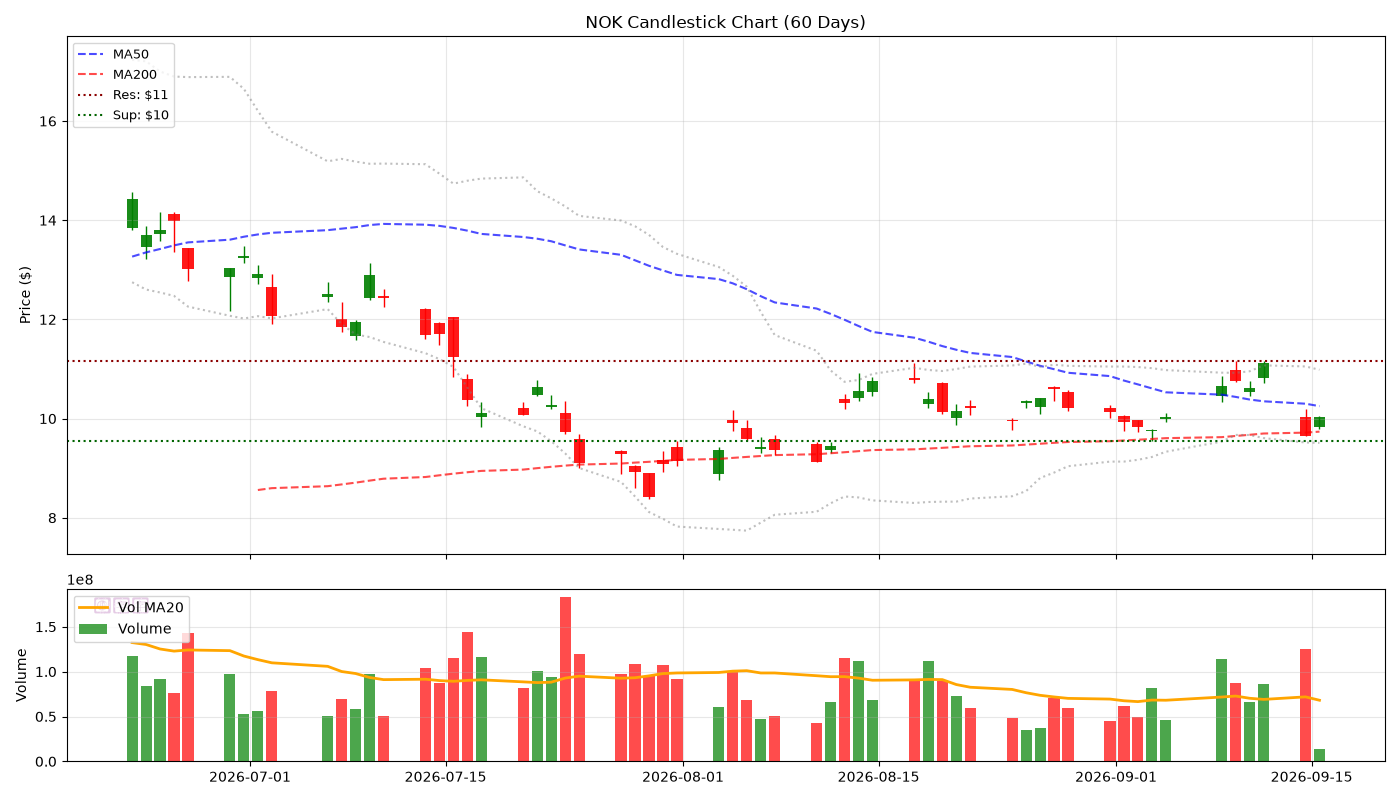
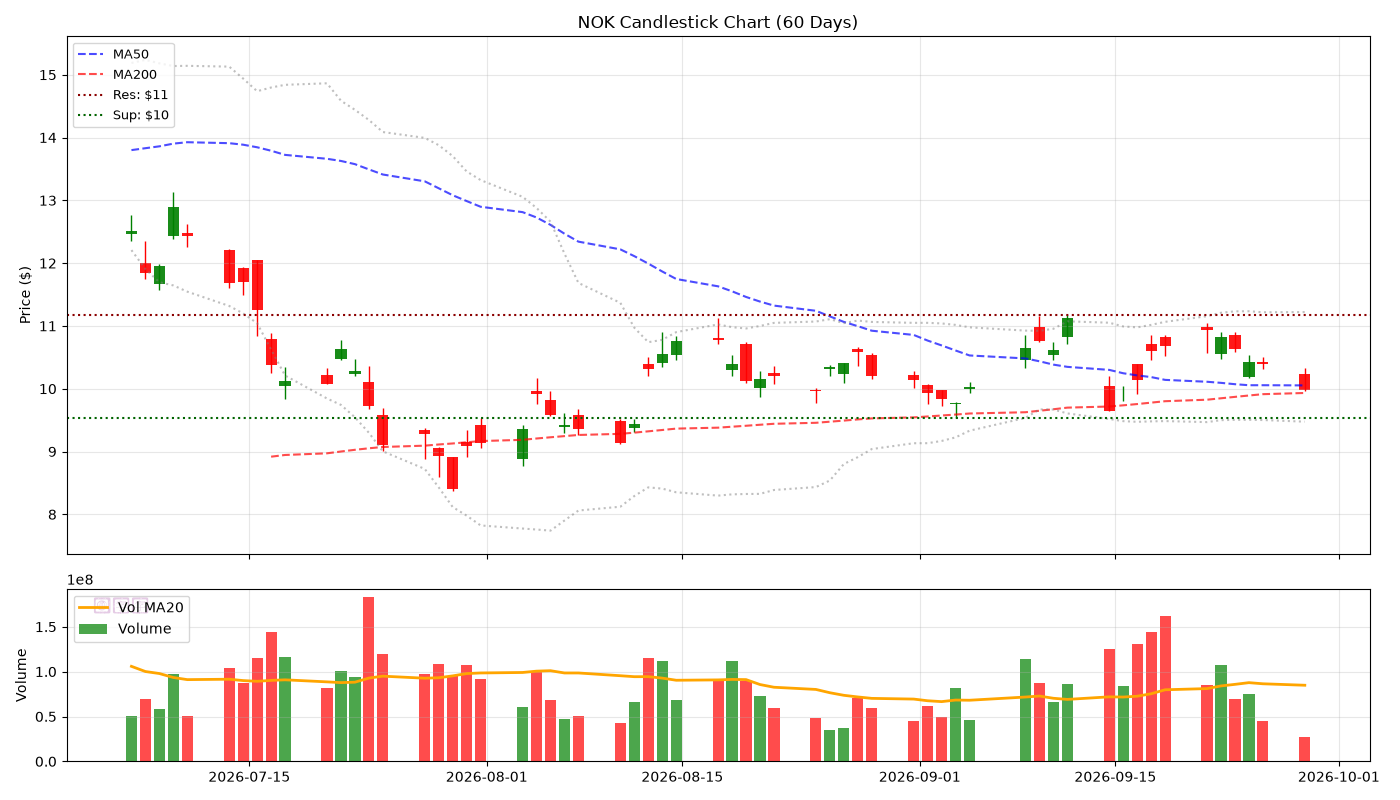
feat(v5): 2026-09-28 Candlestick

diff --git a/reports/2026-09-28.md b/reports/2026-09-28.md
@@ -1,0 +1,85 @@
+# 🕯 Hermes V5 陰陽燭專業日報 - 2026-09-28
+> **生成時間**: 2026-09-28 23:00:49 | **圖表**: 正宗陰陽燭 + Volume
+
+---
+
+## 📊 核心數據
+
+| 股票 | 價格 | 漲跌% | RSI | 成交量 | 阻力 | 支撐 |
+|------|------|-------|-----|--------|------|------|
+| SNDK | $1679.86 | -5.51% | 46.9 | 💤 | $1700 | $1450 |
+| MU | $1039.23 | -3.98% | 55.1 | 💤 | $1050 | $1000 |
+| SOXL | $136.71 | -9.74% | 55.8 | 💧 | $150 | $100 |
+| TSLA | $359.91 | -3.28% | 43.4 | 💤 | $387 | $350 |
+| APP | $309.93 | -0.27% | 49.0 | 💤 | $338 | $300 |
+| NOW | $130.74 | -3.60% | 45.4 | 💤 | $150 | $127 |
+| CAT | $814.94 | -0.81% | 47.4 | 💤 | $830 | $800 |
+| AMAT | $473.98 | -2.27% | 50.4 | 💤 | $488 | $450 |
+| NOK | $9.98 | -3.95% | 42.5 | 💤 | $11 | $10 |
+| ALAB | $350.30 | -3.93% | 65.0 | 💤 | $378 | $350 |
+
+---
+
+## 📈 個股陰陽燭分析
+
+### SNDK ($1679.86, -5.51%)
+![Candlestick](../charts/SNDK.png)
+
+- **RSI**: 46.9 | **Vol**: LOW
+- **關鍵位**: 阻力 $1700.00 | 支撐 $1449.50
+
+### MU ($1039.23, -3.98%)
+![Candlestick](../charts/MU.png)
+
+- **RSI**: 55.1 | **Vol**: LOW
+- **關鍵位**: 阻力 $1050.00 | 支撐 $1000.00
+
+### SOXL ($136.71, -9.74%)
+![Candlestick](../charts/SOXL.png)
+
+- **RSI**: 55.8 | **Vol**: NORMAL
+- **關鍵位**: 阻力 $150.00 | 支撐 $100.00
+
+### TSLA ($359.91, -3.28%)
+![Candlestick](../charts/TSLA.png)
+
+- **RSI**: 43.4 | **Vol**: LOW
+- **關鍵位**: 阻力 $386.83 | 支撐 $350.00
+
+### APP ($309.93, -0.27%)
+![Candlestick](../charts/APP.png)
+
+- **RSI**: 49.0 | **Vol**: LOW
+- **關鍵位**: 阻力 $338.34 | 支撐 $300.09
+
+### NOW ($130.74, -3.60%)
+![Candlestick](../charts/NOW.png)
+
+- **RSI**: 45.4 | **Vol**: LOW
+- **關鍵位**: 阻力 $149.60 | 支撐 $126.76
+
+### CAT ($814.94, -0.81%)
+![Candlestick](../charts/CAT.png)
+
+- **RSI**: 47.4 | **Vol**: LOW
+- **關鍵位**: 阻力 $830.50 | 支撐 $800.00
+
+### AMAT ($473.98, -2.27%)
+![Candlestick](../charts/AMAT.png)
+
+- **RSI**: 50.4 | **Vol**: LOW
+- **關鍵位**: 阻力 $487.68 | 支撐 $450.00
+
+### NOK ($9.98, -3.95%)
+![Candlestick](../charts/NOK.png)
+
+- **RSI**: 42.5 | **Vol**: LOW
+- **關鍵位**: 阻力 $11.17 | 支撐 $9.54
+
+### ALAB ($350.30, -3.93%)
+![Candlestick](../charts/ALAB.png)
+
+- **RSI**: 65.0 | **Vol**: LOW
+- **關鍵位**: 阻力 $377.87 | 支撐 $350.00
+
+*Generated by Hermes Agent V5 (Candlestick Pro)*

diff --git a/index.md b/index.md
@@ -1,12 +1,12 @@
 # 🌍 Hermes V5 陰陽燭情報中心
-> **更新**: 2026-09-15 21:46:17
+> **更新**: 2026-09-28 23:00:49
 
 | 股票 | 價格 | 漲跌% | RSI | Vol |
 |------|------|-------|-----|-----|
-| SNDK | $1558.24 | +0.40% | 56.5 | 💤 |
-| MU | $935.33 | +1.22% | 50.4 | 💤 |
-| SOXL | $104.92 | +3.75% | 43.9 | 💤 |
-| TSLA | $361.21 | +0.62% | 54.5 | 💤 |
-| APP | $331.60 | -0.79% | 62.4 | 💤 |
+| SNDK | $1679.86 | -5.51% | 46.9 | 💤 |
+| MU | $1039.23 | -3.98% | 55.1 | 💤 |
+| SOXL | $136.71 | -9.74% | 55.8 | 💤 |
+| TSLA | $359.91 | -3.28% | 43.4 | 💤 |
+| APP | $309.93 | -0.27% | 49.0 | 💤 |
 
-📖 [查看完整陰陽燭報告](reports/2026-09-15.md)
+📖 [查看完整陰陽燭報告](reports/2026-09-28.md)
